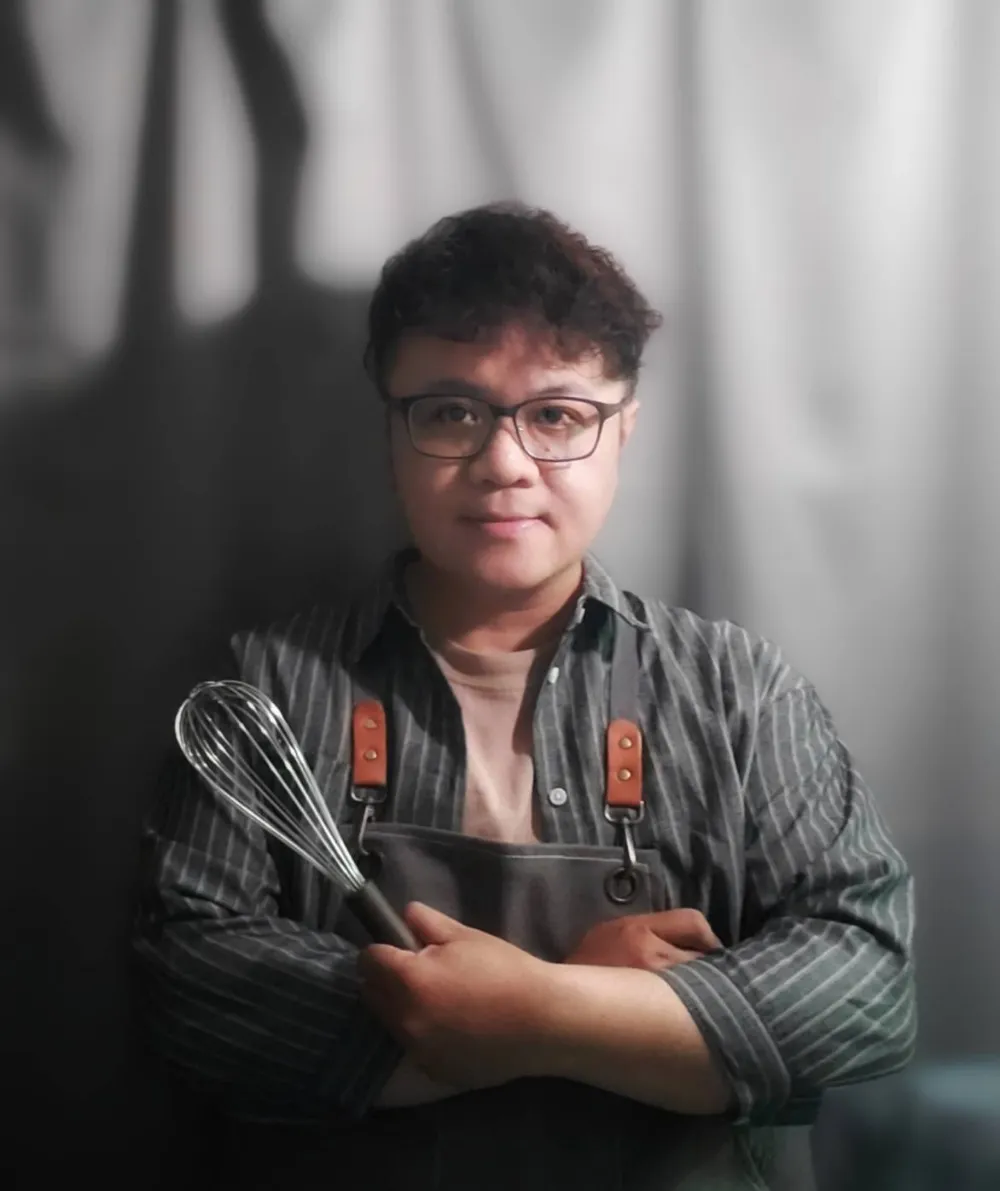
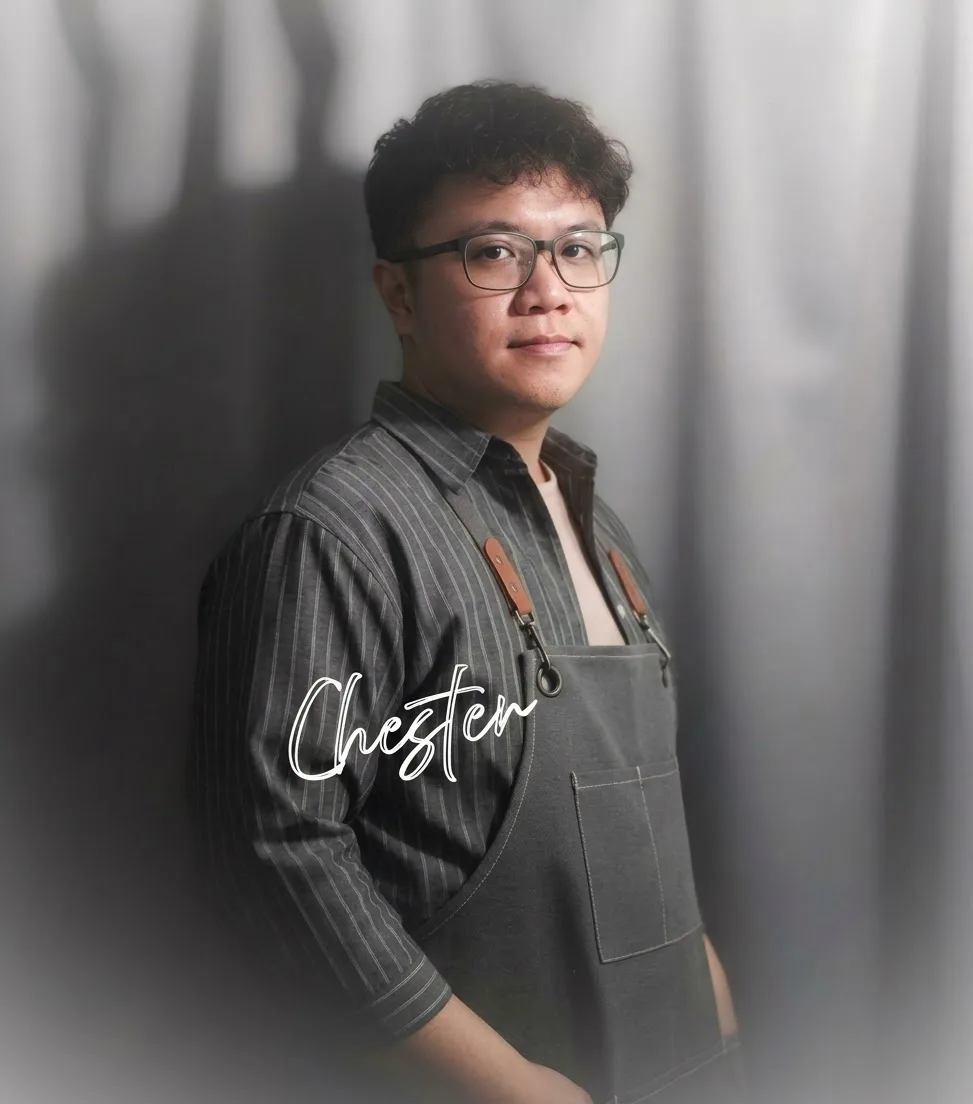
Landing page v1：換形象照、手機首屏疊回小照片、痛點卡手機改上下排
- 「做這一顆的人」換成 Chester 指定的新形象照（含手寫簽名），拿掉重複的「— Chester」
- 手機首屏：可可瑪德蓮籃子小照片疊回大照片右下角，蓋住缺角；修正 inset 圖被 height 屬性撐高
- 痛點三張卡手機改上下排，不用左右滑

diff --git a/v1/index.html b/v1/index.html
@@ -105,7 +105,7 @@
   .scroll-btn:hover{background:var(--navy);color:var(--cream)}
   .scroll-btn svg{width:18px;height:18px}
   .h-inset{position:absolute;right:calc(var(--strip) - min(9vw,130px));top:54%;width:min(17vw,250px);z-index:3}
-  .h-inset img{aspect-ratio:4/5;object-fit:cover;width:100%;box-shadow:0 30px 60px -30px rgba(0,0,0,.8)}
+  .h-inset img{aspect-ratio:4/5;object-fit:cover;width:100%;height:auto;box-shadow:0 30px 60px -30px rgba(0,0,0,.8)}
   .h-inset .sq{width:38%;aspect-ratio:1;right:-14%;top:-11%;z-index:-1}
   .h-inset figcaption{margin-top:12px;font:italic 500 14px/1.4 var(--latin);letter-spacing:.08em;color:var(--cream-60);text-align:right}
   .h-copy{position:relative;z-index:2;width:max(46%,calc(36% + 120px));background:var(--navy);padding:52px 52px 44px var(--gut);margin-bottom:40px}
@@ -230,13 +230,12 @@
   .pt p{font-size:15.5px;line-height:2.05}
   .maker{display:grid;grid-template-columns:repeat(12,1fr);align-items:end;margin-top:110px;padding-bottom:120px}
   .maker-photo{grid-column:1/6;position:relative}
-  .maker-photo img{width:100%;aspect-ratio:4/4.6;object-fit:cover;object-position:50% 30%}
+  .maker-photo img{width:100%;aspect-ratio:4/4.6;object-fit:cover;object-position:50% 40%}
   .maker-photo .sq{width:38%;aspect-ratio:1;right:-22px;bottom:-22px;z-index:-1}
   .maker-text{grid-column:7/13;padding-bottom:10px}
   .maker-text h3{font-size:clamp(22px,2.4vw,30px);margin-bottom:26px;line-height:1.5}
   .maker-text p:not(.kicker){font:600 16.5px/2.2 var(--serif);letter-spacing:.08em;color:var(--berry)}
   .maker-text p:not(.kicker) + p{margin-top:22px;font:400 15.5px/2.05 var(--sans);letter-spacing:.04em}
-  .maker-text .sig{margin-top:30px;font:italic 500 22px/1 var(--latin);color:var(--wine);letter-spacing:.06em}
 
   /* ───────── 7. 寫給這幾種人 ───────── */
   .who{background:var(--almond);color:var(--berry);padding:0 0 130px}
@@ -353,7 +352,10 @@
     .hero{min-height:0;display:block}
     .h-photo{position:relative;inset:auto;width:100%;height:auto;aspect-ratio:4/4.6;max-height:66svh}
     .h-photo::after{background:linear-gradient(180deg,rgba(5,53,76,.6),rgba(5,53,76,0) 30%,rgba(5,53,76,0) 70%,rgba(5,53,76,.5))}
-    .h-strip,.h-inset,.ghost{display:none}
+    .h-strip,.ghost{display:none}
+    .h-inset{right:0;top:calc(min(115vw,66svh) - 26vw);width:30vw}
+    .h-inset figcaption{display:none}
+    .h-inset .sq{width:34%;right:auto;left:-14%;top:-10%}
     .h-copy{width:auto;margin:-84px 16px 0 0;padding:30px 20px 30px 20px}
     .h-photo img{object-position:50% 60%}
     .h-copy .eyebrow-m{display:block;font-size:12.5px;line-height:1.7;letter-spacing:.12em;color:var(--apricot);margin-bottom:14px}
@@ -371,10 +373,9 @@
     .pain .sq{width:56px;height:56px;top:-28px}
     .sec-head{flex-direction:column;align-items:flex-start;gap:12px;margin-bottom:34px}
     .sec-head .alt{text-align:left}
-    .cards{display:flex;overflow-x:auto;scroll-snap-type:x mandatory;gap:14px;margin:0 -20px;padding:0 20px 8px;scrollbar-width:none}
-    .cards::-webkit-scrollbar{display:none}
-    .pcard{flex:0 0 82%;scroll-snap-align:center;padding:32px 26px 34px}
-    .swipe{display:flex!important}
+    .cards{grid-template-columns:1fr;gap:14px}
+    .pcard{padding:30px 24px 32px}
+    .pcard .no{font-size:38px;margin-bottom:18px}
     .bridge{margin-top:56px;font-size:17px;text-align:left}
 
     .sol-grid{display:block}
@@ -454,7 +455,6 @@
     .sol-photo img,.trio img,.maker-photo img,.when-photos img,.h-inset img{height:auto}
     @media (max-width:900px){.h-photo{height:110vw;max-height:66vh}}
   }
-  .swipe{display:none;align-items:center;gap:8px;margin-top:14px;font:italic 500 14px/1 var(--latin);color:var(--caramel);letter-spacing:.1em}
 </style>
 </head>
 <body>
@@ -563,7 +563,6 @@
         <p>關燈之後，手機又滑了二十分鐘。<br>看了些什麼，其實一點都記不得，<br>只記得今天還沒真正結束，<br>明天已經在排隊了。</p>
       </article>
     </div>
-    <p class="swipe" aria-hidden="true">swipe →</p>
 
     <p class="bridge rv"><span class="first">這三個畫面，你可能是其中一個，也可能三個都是。</span>你把每個人都安排好了，<br>行程表上卻一直沒有自己的位置。</p>
   </div>
@@ -673,14 +672,13 @@
     <div class="maker">
       <div class="maker-photo">
         <span class="sq"></span>
-        <img src="img/chester.webp" alt="穿著圍裙、手拿打蛋器的主理人 Chester" loading="lazy">
+        <img src="img/chester.webp" alt="穿著圍裙、倚著布幕的主理人 Chester" loading="lazy">
       </div>
       <div class="maker-text rv d1">
         <p class="kicker">The hands behind it</p>
         <h3>做這一顆的人</h3>
         <p>手作的人是 Chester。<br>曾在半導體業工作十餘年，<br>離開之後拾起攪拌棒，<br>把工程師的細心，放進每一次秤量與出爐。</p>
         <p>全系列使用履歷雞蛋與國產鮮奶，<br>每一單按單備料，手作完成。</p>
-        <p class="sig">— Chester</p>
       </div>
     </div>
   </div>
